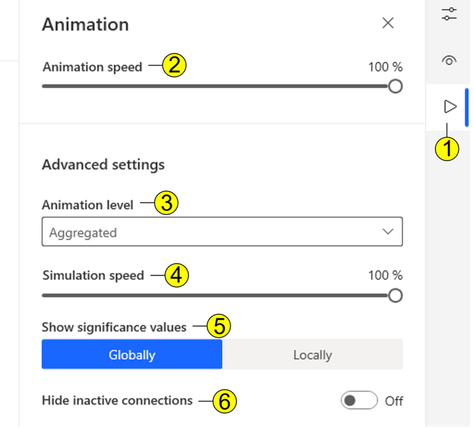
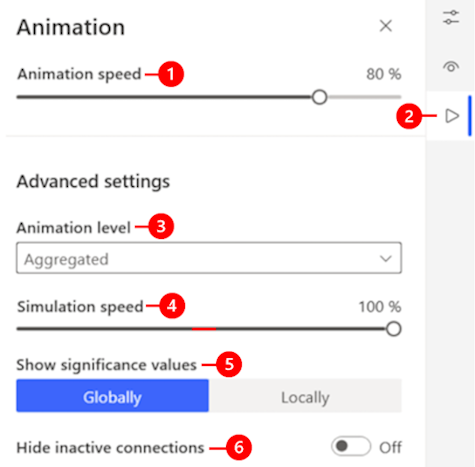
animation

diff --git a/articles/minit/process-animation.md b/articles/minit/process-animation.md
@@ -23,14 +23,13 @@ With process animation, you can visualize process development over time. You can
 
 Control animation speed, advanced settings, and more on the **Animation** screen.
 
-![image](https://github.com/MicrosoftDocs/power-automate-docs-pr/assets/113051637/24a8c9a0-08fd-420d-a8d0-7a72a77fefd2)
-
+:::image type="content" source="media/process-animation/animation-controls-resize.png" alt-text="<alt text>":::
 
 Legend:
 
-1. **Right arrow icon:** Select to open the **Animation** screen.
-
 1. **Animation speed slider:** Move the slider to adjust the animation playback speed. The information displayed in the animation frame remains unchanged.
+
+1. **Right arrow icon:** Select to open the **Animation** screen.
 
 1. **Animation level dropdown menu**: There are two options: Select **Immediate** to indicate that actual dynamics in the process will be shown during playback. Select **Aggregated** to indicate that the process dynamics aggregated in the time period around the currently monitored time point will be shown during playback.
 
@@ -59,10 +58,4 @@ The information about the actual time in the process appears to the right of **P
     When you select **Play animation**, the button turns into **Pause automation**.
 
 1. To temporarily stop the automation from playing, select **Pause automation**.
-
-<!-- remove instant animation level
-:::image type="content" alt-text="Screenshot of an instant animation level." source="media/image003-7.png"::: -->
-
-
-
 
